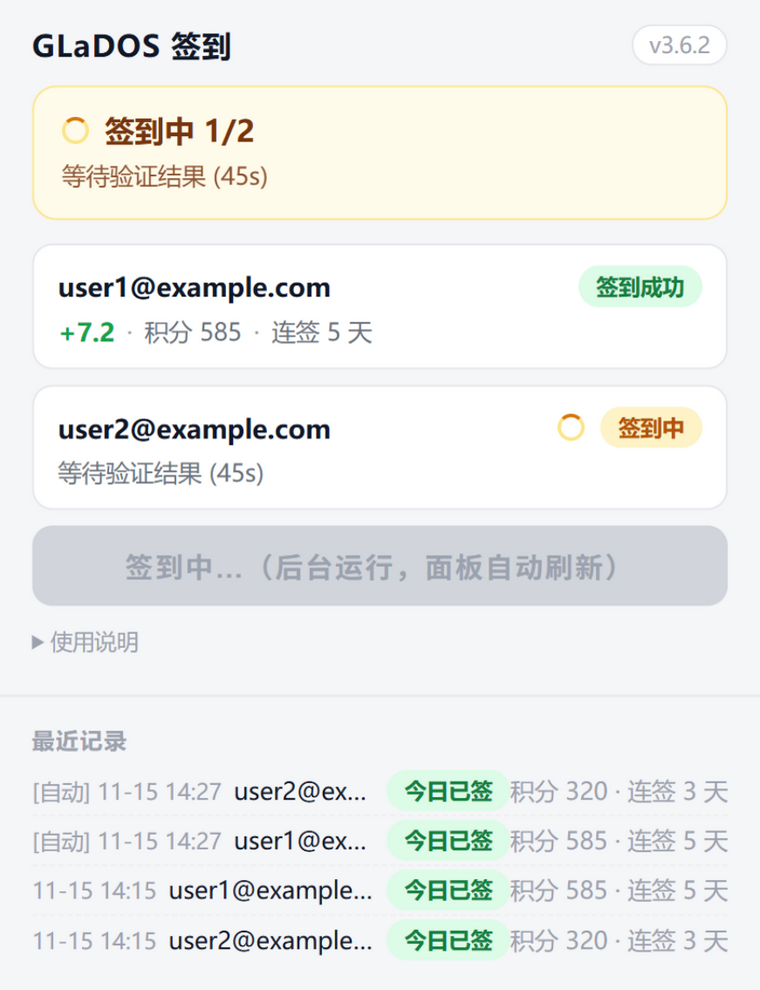
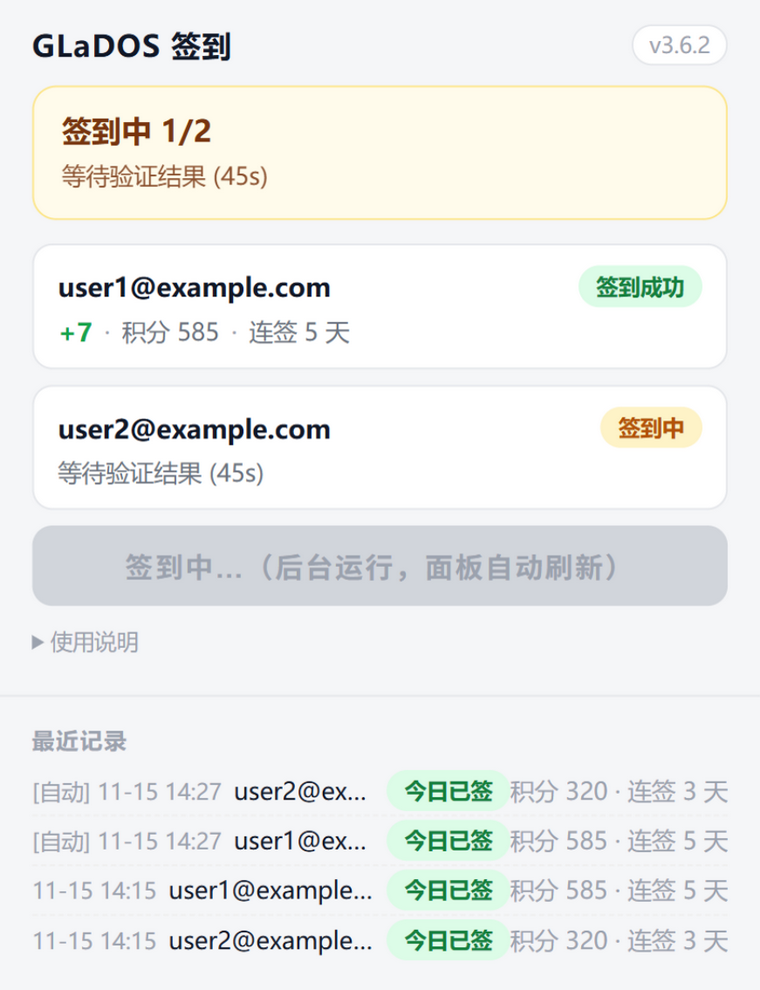
docs: 截图列序调整（进行中→完成）+ point 整数化（与真实签到一致）

Changed region(s): [[0.1211, 0.303, 0.4842, 0.3636], [0.0605, 0.1212, 0.3329, 0.1515], [0.7263, 0.3939, 0.7868, 0.4545]]

diff --git a/tests/popup.test.js b/tests/popup.test.js
@@ -49,8 +49,8 @@ check("横幅-成功", captured["banner:cls"] + "|" + captured["banner:html"],
 
 // 2) 横幅-成功态带当日增量
 api.renderBanner({ lastSuccessDate: today, history: [{ date: today, time: "14:04", status: "success" }] },
-  [{ who: "a@b.c", status: "success", points: 7.2, balance: 315 }], false);
-check("横幅-增量", captured["banner:html"], ["今日 +7.2"], []);
+  [{ who: "a@b.c", status: "success", points: 7, balance: 315 }], false);
+check("横幅-增量", captured["banner:html"], ["今日 +7"], []);
 
 // 3) 横幅-运行态（1/2 + 实时动作）
 api.renderBanner({ running: true, progress: "14:04 已完成 1/2 · 当前签到 45s" },
@@ -105,8 +105,8 @@ else console.log("PASS XSS 转义");
 
 // 10) 历史行：日期缩写 + 增量
 check("历史行",
-  api.histHtml({ date: "2026-11-14", time: "14:04", who: "user1@example.com", status: "success", points: 7.2 }),
-  ["11-14 14:04", "user1@example.com", "签到成功", "+7.2"],
+  api.histHtml({ date: "2026-11-14", time: "14:04", who: "user1@example.com", status: "success", points: 7 }),
+  ["11-14 14:04", "user1@example.com", "签到成功", "+7"],
   []);
 
 // 11) 历史还原行：切回对象可见
@@ -121,7 +121,7 @@ check("历史行-自动标注",
   ["[自动] 11-14 21:15"],
   []);
 check("历史行-手动无标注",
-  api.histHtml({ date: "2026-11-14", time: "14:04", who: "user1@example.com", status: "success", points: 7.2 }),
+  api.histHtml({ date: "2026-11-14", time: "14:04", who: "user1@example.com", status: "success", points: 7 }),
   ["11-14 14:04"],
   ["[自动]"]);
 

diff --git a/tests/integration.test.js b/tests/integration.test.js
@@ -59,7 +59,7 @@ function makeEnv(opts = {}) {
     acct.signed = true;
     page.marker = opts.failMarker
       ? JSON.stringify({ code: 5, reason: "turnstile", message: "Cloudflare verification failed" })
-      : JSON.stringify({ code: 0, message: "Check-in success", points: 7.2 });
+      : JSON.stringify({ code: 0, message: "Check-in success", points: 7 });
     page.bodyText += " 签到成功";
   }
 
@@ -242,8 +242,8 @@ async function scenarioFreshSuccess() {
   console.log("[S1-RES]", JSON.stringify(res));
   ok(res.length === 3, "结果行数 3（账号0+账号1+还原）", `实际 ${res.length}`);
   ok(
-    res[0].status === "success" && res[0].points === 7.2,
-    "账号0 真签到成功 +7.2",
+    res[0].status === "success" && res[0].points === 7,
+    "账号0 真签到成功 +7",
     JSON.stringify(res[0]).slice(0, 200)
   );
   ok(res[0].who === "orig@gmail.com", "row0 邮箱来自身份接口");
@@ -305,7 +305,7 @@ async function scenarioChallenge() {
   setTimeout(() => {
     for (const t of Object.values(E.tabs)) {
       t.page.turnstileSolved = true;
-      t.page.marker = JSON.stringify({ code: 0, message: "Check-in success", points: 7.2 });
+      t.page.marker = JSON.stringify({ code: 0, message: "Check-in success", points: 7 });
       t.page.bodyText += " 签到成功";
     }
   }, 16000);

diff --git a/README.md b/README.md
@@ -17,9 +17,9 @@
 
 ## 截图
 
-| 签到完成 | 签到进行中 |
+| 签到进行中 | 签到完成 |
 |:---:|:---:|
-| ![签到完成](docs/shot-done.png) | ![签到进行中](docs/shot-running.png) |
+| ![签到进行中](docs/shot-running.png) | ![签到完成](docs/shot-done.png) |
 
 ## 安装
 
